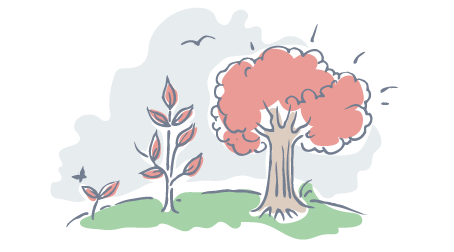
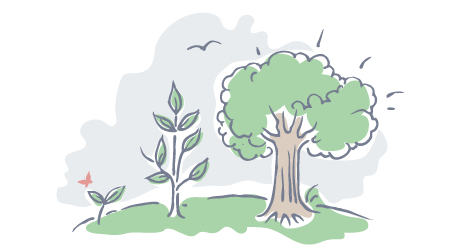
Change images
added new header and living software images

Changed region(s): [[0.1542, 0.1111, 0.8943, 0.9722], [0.4009, 0.1389, 0.4934, 0.1944]]

diff --git a/index.html b/index.html
@@ -35,9 +35,9 @@
         </header>
         <section class="hero small-padding">
             <div class="sign-up-form-v1 sign-up-form-v1-hero new-exp-form-image hero__content">
-                <div style="width:1200px; height:352px;" data-scale-down="false" data-implementation-width="820" class="hero__banner animator" data-implementation-height="312">
+                <div style="width:1200px; height:440px;" data-scale-down="false" data-implementation-width="820" class="hero__banner animator" data-implementation-height="312">
                     <img src="./assets/header.png" alt="" class="animator-poster" />
-                    <div style="width:59040px;" class="animator-strip"><img data-src="./assets/header.png" style="width:39360px;" alt="" class="animator-frame animator-frame--intro animator-sequence" /><img data-src="h./assets/header.png" style="width:19680px;" alt="" class="animator-frame animator-frame--loop animator-sequence" />
+                    <div class="animator-strip"><img data-src="./assets/header.png" style="width:39360px;" alt="" class="animator-frame animator-frame--intro animator-sequence" /><img data-src="h./assets/header.png" style="width:19680px;" alt="" class="animator-frame animator-frame--loop animator-sequence" />
                     </div>
                 </div>
                 <div class="six-column hero__copy">
